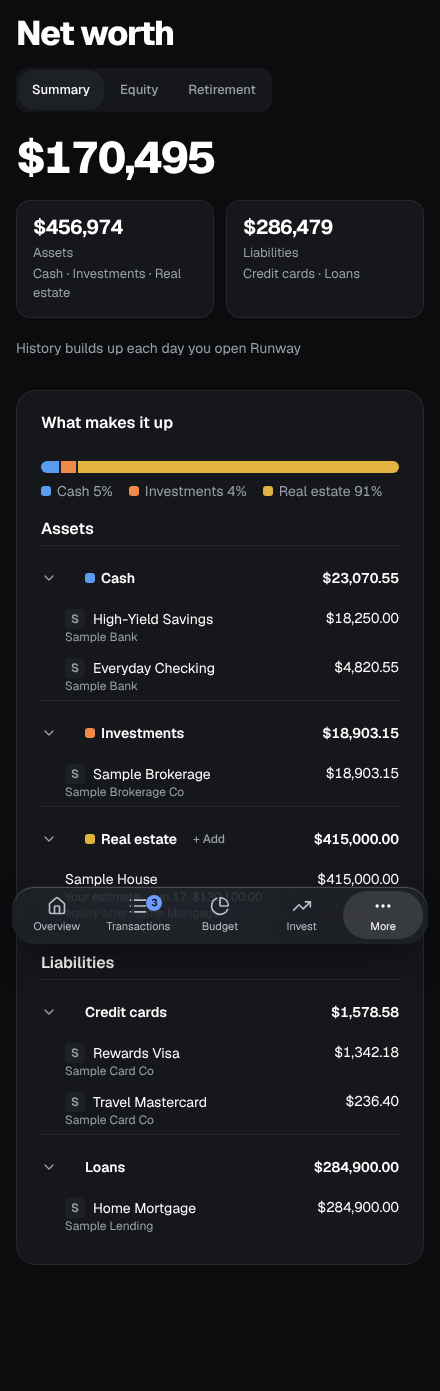
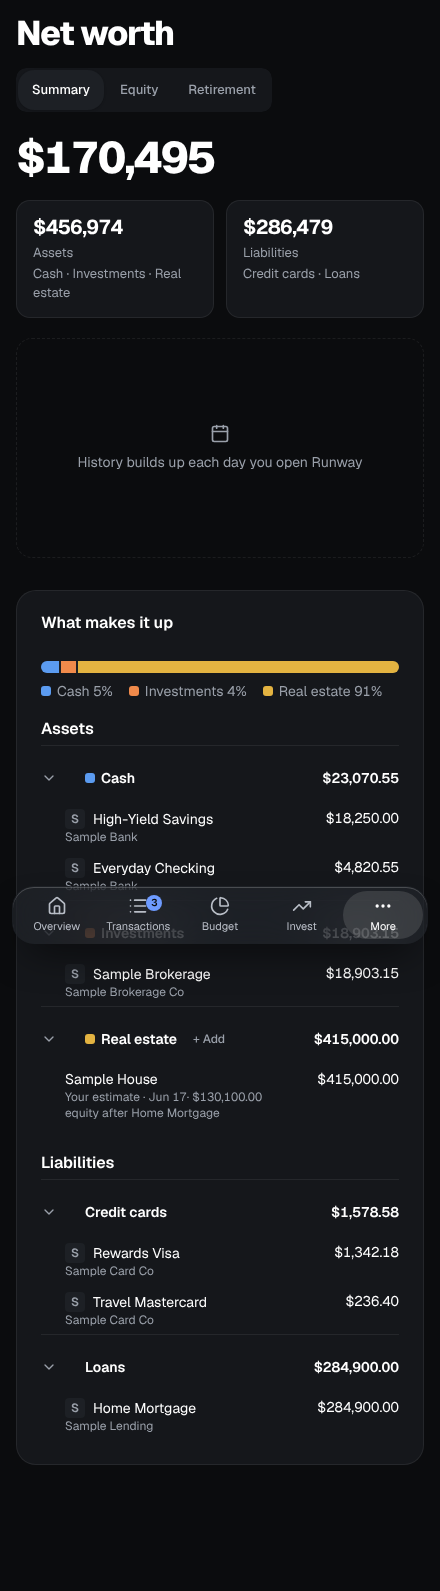
feat: give Net worth's no-history line the chart's place (#508)

diff --git a/frontend/src/lib/components/networth/hero.svelte.test.ts b/frontend/src/lib/components/networth/hero.svelte.test.ts
@@ -31,6 +31,7 @@ describe("the net worth hero", () => {
     expect(await change()).toBe("+$300 (+6.4%) in the last month");
     expect(screen.getByTestId("nw-change")).toHaveClass("text-good");
     expect(screen.queryByText("Over time")).not.toBeInTheDocument();
+    expect(screen.queryByTestId("nw-no-history-box")).not.toBeInTheDocument();
     expect(screen.getByRole("radio", { name: "1Y" })).toBeDisabled();
     const chart = () => container.querySelector("svg[role=slider]")!.innerHTML;
     const before = chart();
@@ -64,6 +65,8 @@ describe("the net worth hero", () => {
     serve(nw([{ date: "2026-09-30", net: 5000 }], { "30d": null, "90d": null, "1y": null }));
     const { container } = render(NetWorth);
     expect(await screen.findByTestId("nw-no-history")).toHaveTextContent("History builds up each day you open Runway");
+    expect(screen.getByTestId("nw-no-history-box")).toContainElement(screen.getByTestId("nw-no-history"));
+    expect(screen.getByTestId("nw-no-history-box")).toHaveClass("h-[220px]", "border-dashed");
     expect(container.querySelector("svg[role=slider]")).toBeNull();
     expect(screen.queryByRole("radio")).not.toBeInTheDocument();
     expect(screen.queryByText("Over time")).not.toBeInTheDocument();

diff --git a/frontend/src/pages/NetWorth.svelte b/frontend/src/pages/NetWorth.svelte
@@ -21,6 +21,7 @@
   import { fmt, fmt0, fmtDate, fmtSigned0, nb, pct, shortMoney } from "$lib/format";
   import { undoable } from "$lib/undo";
   import { cn } from "$lib/utils";
+  import Calendar from "@lucide/svelte/icons/calendar";
   import ChevronDown from "@lucide/svelte/icons/chevron-down";
   import { toast } from "svelte-sonner";
   import { act, errMsg } from "$lib/act";
@@ -246,7 +247,11 @@
           series={[{ name: "Net worth", values: points.map((h) => h.net), cls: "s-main", area: true }]} />
       </div>
     {:else}
-      <p class="mt-5 text-sm text-muted-foreground" data-testid="nw-no-history">History builds up each day you open Runway</p>
+      <!-- Holds the chart's place (same 220px height) so the missing history doesn't read as a chart that failed to render. -->
+      <div class="mt-5 flex h-[220px] flex-col items-center justify-center gap-2 rounded-lg border border-dashed text-sm text-muted-foreground" data-testid="nw-no-history-box">
+        <Calendar class="size-5" aria-hidden="true" />
+        <p data-testid="nw-no-history">History builds up each day you open Runway</p>
+      </div>
     {/if}
   </section>
 

diff --git a/docs/src/content/docs/using/features.md b/docs/src/content/docs/using/features.md
@@ -139,7 +139,7 @@ On Net worth → Retirement.
 
 - **Summary:** every account plus homes, vehicles and anything else you own, minus cards and loans, recorded daily. Optional automated home values through Realie (key under Settings → Connections; each home is looked up once a week at most, within the free tier). Once Realie has valued a home with an address it can use and you keep it updated weekly, its value comes from Realie only (Update from Realie, or weekly), with no hand-typed value; vehicles, other assets, homes Realie can't value and homes you don't keep updated are valued by hand.
 - **Loans go down between updates.** A loan with an interest rate and a monthly payment (the lender's through Plaid, what you enter under Settings → Accounts, or, with a rate but no payment, the typical month's payments into the loan account lately) is paid down month by month from its last balance, so a home's equity grows even when the bank doesn't send a new balance. Without an interest rate (0% counts as one) or a payment, the balance stays as the bank last reported it. The retirement planner starts from the same paid-down balance.
-- **Change over 1M, 3M or 1Y** (“+$4,210 (+2.9%) in the last month”, green for a gain and coral for a loss) is measured from the latest snapshot at least that old, and the chart starts from the same snapshot. Snapshots are saved on the days the numbers are looked at, so after a gap the change can cover longer than its label; when it's more than a few days longer, the page says since when (“+$4,200 since Aug 10”). Until there are two days of history, a line says it builds up each day you open Runway. Pointing at the chart (or the arrow keys, once it has focus) shows that day's net worth in the headline.
+- **Change over 1M, 3M or 1Y** (“+$4,210 (+2.9%) in the last month”, green for a gain and coral for a loss) is measured from the latest snapshot at least that old, and the chart starts from the same snapshot. Snapshots are saved on the days the numbers are looked at, so after a gap the change can cover longer than its label; when it's more than a few days longer, the page says since when (“+$4,200 since Aug 10”). Until there are two days of history, a dashed box with a calendar icon sits where the chart will be and says it builds up each day you open Runway. Pointing at the chart (or the arrow keys, once it has focus) shows that day's net worth in the headline.
 - **What makes it up:** each kind of asset keeps its color in the bar and before its heading. Debts that are all $0 (cards paid off) show as “Nothing owed”. A reload that fails after a change keeps the numbers under “Couldn't refresh · Retry”.
 - **Equity:** stock options (ISO/NSO), RSUs, restricted stock and shares, each with its vesting schedule (cliff, monthly or quarterly), exercise price and exercises. Runway shows what has vested and what's still to come at each company's latest share price (the last one you entered, before tax), and counts the vested part in net worth. A price about three months old or more is flagged (“price from 7 months ago”). The vesting chart has a line per company, with the smaller ones added up as Other past four. The grant form previews the schedule as you type (“25% on Jan 2027, then monthly until Jan 2030”); on a phone each grant is a card. A Carta sync or read that failed says so, with a link to fix it in Settings. Enter grants by hand, or read them from **Carta** with the browser extension (with your Carta sign-in, like Amazon and Target) or with Carta's Portfolio API if Carta approves your app.
 
